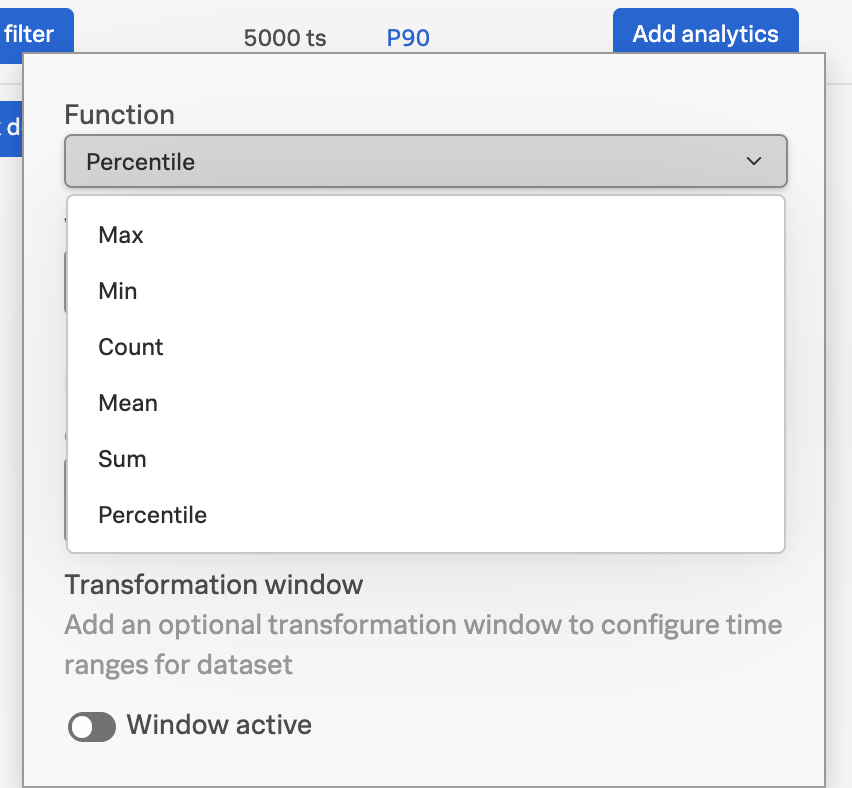
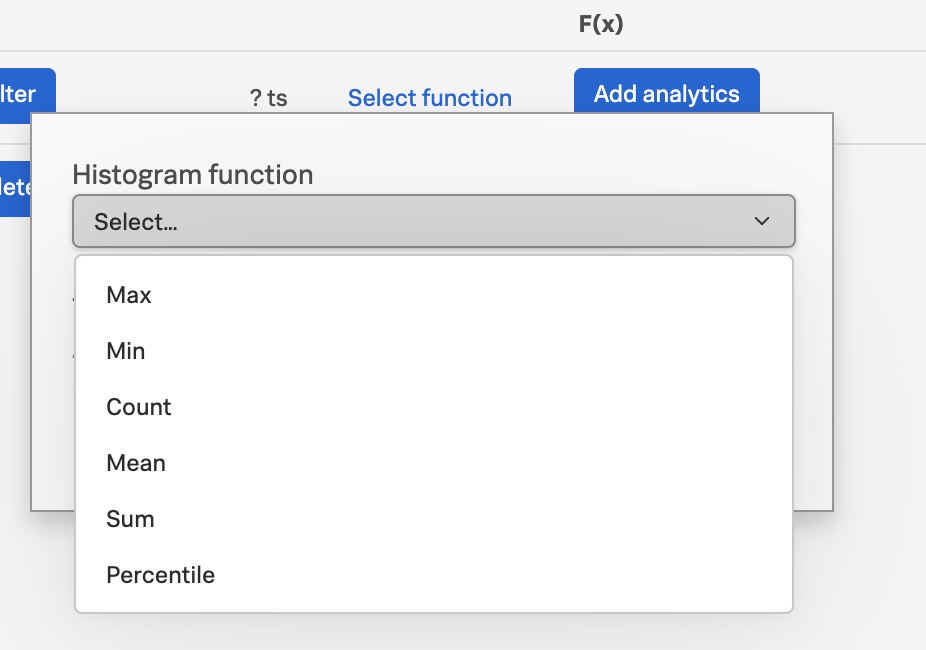
Remove P90 default histogram function

diff --git a/data-visualization/charts/chart-builder.rst b/data-visualization/charts/chart-builder.rst
@@ -134,19 +134,12 @@ Rollups are used to adjust the chart resolution as necessary to effectively disp
 Change histogram function for histogram metrics
 --------------------------------------------------
 
-Because histogram data must be summarized by combining the buckets in the histogram together, when you select a histogram metric as the signal for your plot, rollup is handled by Splunk Observability Cloud as a sum of the bucket values. You can't make changes to the rollup configuration for histogram data. Instead of rollup, use histogram functions to define how histogram data is interpreted and represented on your chart.
+Because histogram data must be summarized by combining the buckets in the histogram together, when you use a histogram metric as the signal for your plot, you must add a histogram function to define how histogram data is interpreted and represented on your chart.
 
-The default histogram function for all histogram metrics is ``percentile(90)``. 
-
-.. image:: /_images/data-visualization/charts/histogram-in-chart.png
-   :width: 80%
-
-To change the histogram function, select :guilabel:`P90` and select a different function you want to use from the :strong:`Function` dropdown menu. For more information on histogram function and supported methods, see :new-page:`histogram() <https://dev.splunk.com/observability/docs/signalflow/functions/histogram>` in the SignalFlow reference documentation.
+To add a histogram function, select :guilabel:`Select function` and choose a function from the :strong:`Histogram function` dropdown menu. For more information on histogram function and supported methods, see :new-page:`histogram() <https://dev.splunk.com/observability/docs/signalflow/functions/histogram>` in the SignalFlow reference documentation.
 
 .. image:: /_images/data-visualization/charts/change-histogram-function.png
    :width: 50%
-
-
 
 .. _plot-analytics:
 
